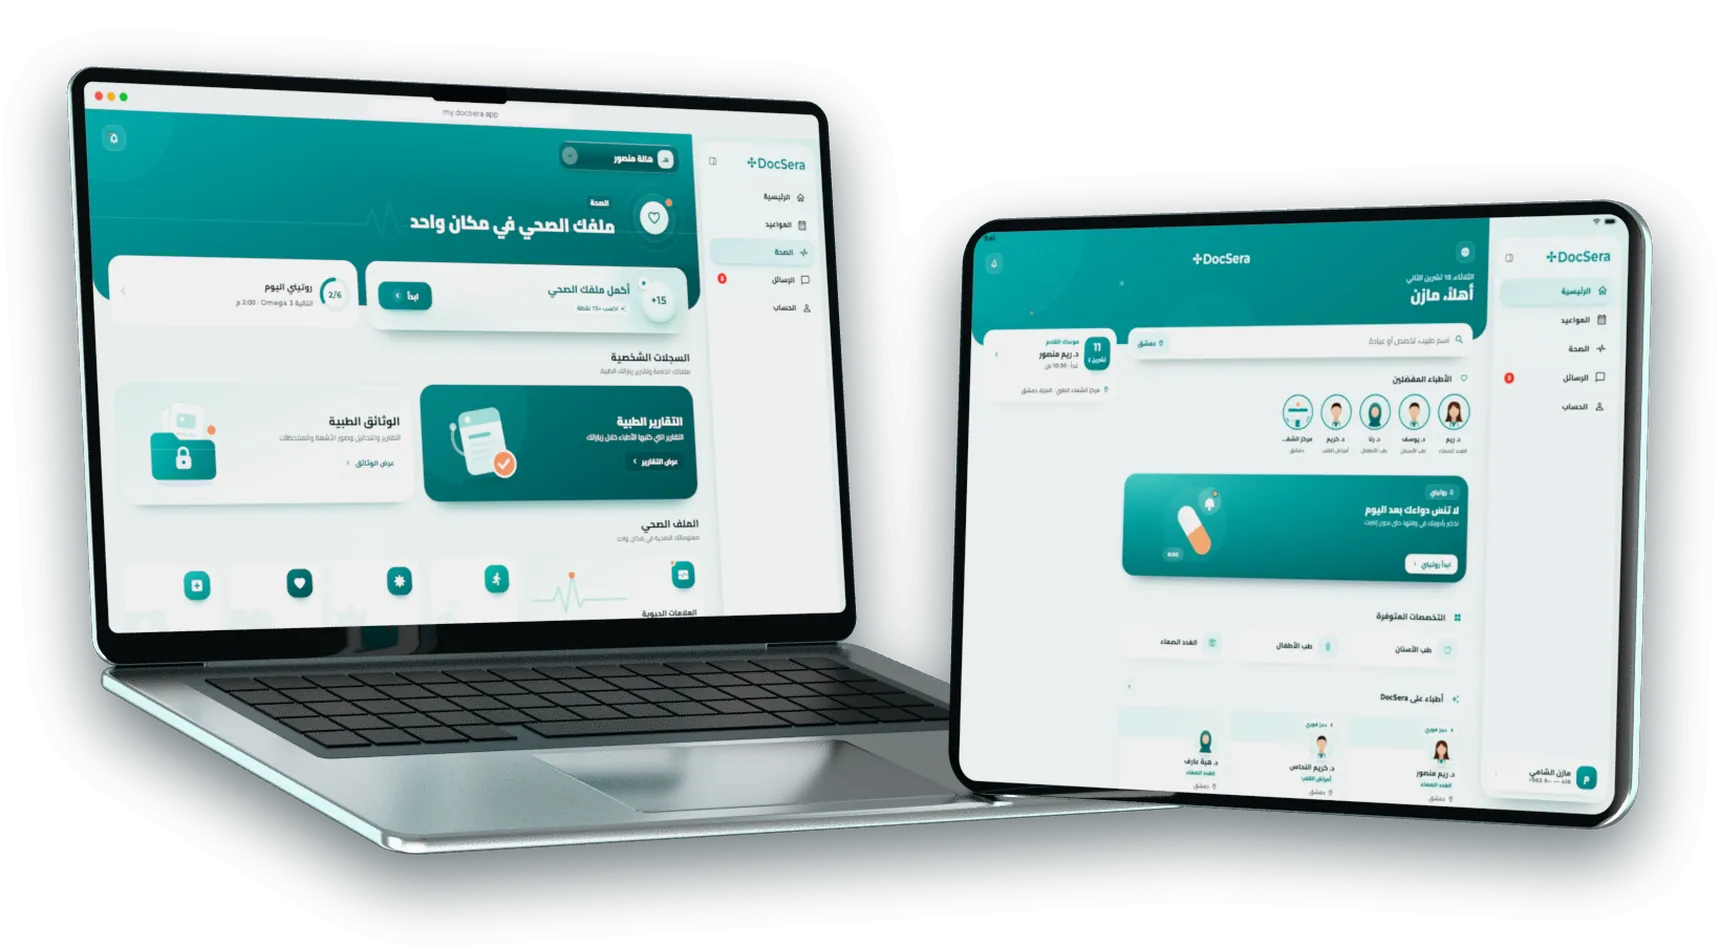
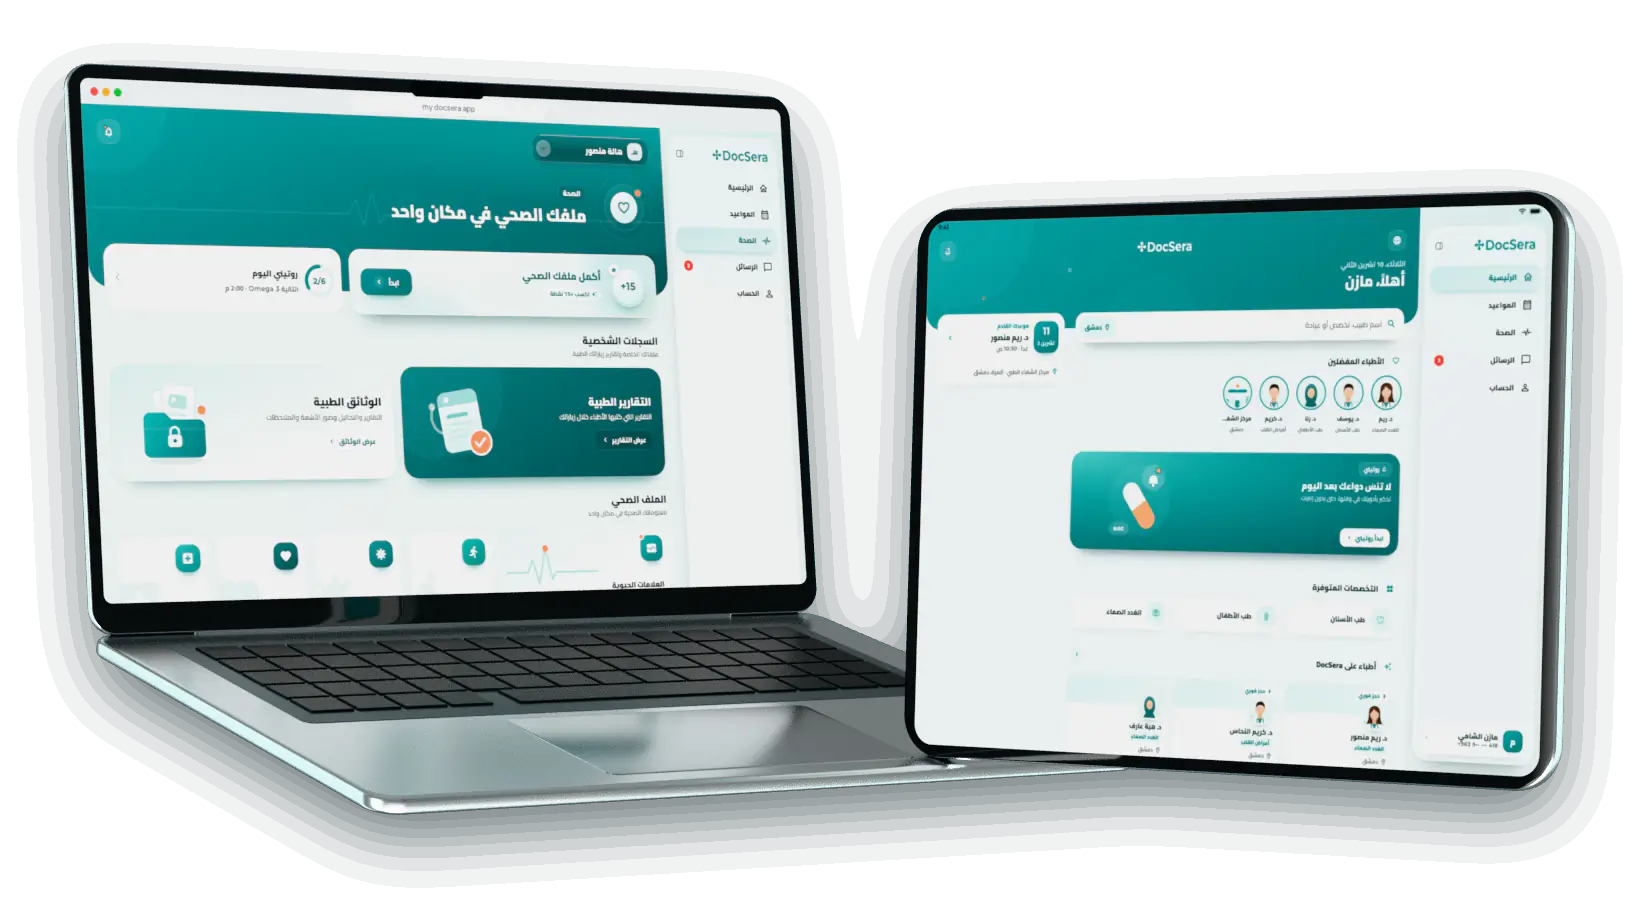
perf(home): lighter first view with the same look - re-encoded trio, home-only Cairo subset, first shot sharpens on first scroll

Changed region(s): [[0.3421, 0.4341, 0.4043, 0.4651], [0.2488, 0.2171, 0.2799, 0.2481]]

diff --git a/src/scripts/home/boot.ts b/src/scripts/home/boot.ts
@@ -489,8 +489,25 @@ function startFinale(): void {
 	}).observe(root);
 }
 
+// The opening shows the phone small, so it starts on a small screenshot.
+// The full one is fetched at the first sign the visitor is moving on.
+function startFirstShot(story: boolean): void {
+	const img = document.querySelector<HTMLImageElement>('img[data-full-sizes]');
+	if (!img) return;
+	const events = ['scroll', 'wheel', 'touchstart', 'pointerdown', 'keydown'];
+	const sharpen = (e?: Event) => {
+		if (e?.type === 'scroll' && scrollY < 2) return;
+		img.sizes = img.dataset.fullSizes || img.sizes;
+		img.setAttribute('srcset', img.getAttribute('srcset') || ''); // makes every browser pick again
+		events.forEach((e) => removeEventListener(e, sharpen));
+	};
+	if (!story || scrollY > 0) return sharpen();
+	events.forEach((e) => addEventListener(e, sharpen, { passive: true }));
+}
+
 requestAnimationFrame(() => {
 	startFlower();
+	startFirstShot(document.documentElement.classList.contains('story'));
 	if (document.documentElement.classList.contains('story')) {
 		startStory();
 		startExpand();
